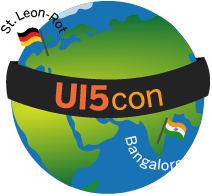
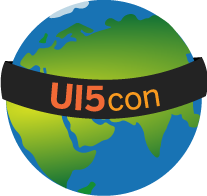
OpenUI5.org: Adjust the link to the Bangalore site

diff --git a/javascripts/index.js b/javascripts/index.js
@@ -1,9 +1,59 @@
-/*$(document).ready(function() {
-	var oImage = $("#ui5ConSticker");
-	$(".map-areas area").mouseenter(function() {
-		var iId = $(".map-areas area").index(this);
-			iId === 0 ? oImage.attr("src", "../openui5/images/UI5con_germany.png") : oImage.attr("src", "../openui5/images/UI5con_bangalore.png");
+$(document).ready(function () {
+	var sGermanyFlagInitialWidth = $("#ui5ConGermany").css("width"),
+		sBangaloreInitialFlagWidth = $("#ui5ConBangalore").css("width"),
+		iGermanyFlagInitialWidthPx = $("#ui5ConGermany").outerWidth(),
+		iGermanyFlagInitialHeightPx = $("#ui5ConGermany").outerHeight(),
+		iBangaloreInitialFlagWidthPx = $("#ui5ConBangalore").outerWidth(),
+		iBangaloreInitialFlagHeightPx = $("#ui5ConBangalore").outerHeight();
+
+	$("#ui5ConGermany").hover(function () {
+
+		$("#ui5ConGermany").css("width", "100%");
+		$("#ui5ConBangalore").css("width", "70%");
+
+		var iGermanyFlagWidthPx = $("#ui5ConGermany").outerWidth(),
+			iGermanyFlagHeightPx = $("#ui5ConGermany").outerHeight(),
+			iBangaloreFlagWidthPx = $("#ui5ConBangalore").outerWidth(),
+		iBangaloreFlagHeightPx = $("#ui5ConBangalore").outerHeight();
+
+		$("#ui5ConGermany").css("left", (iGermanyFlagInitialWidthPx - iGermanyFlagWidthPx)/4 + "px")
+			.css("top", (iGermanyFlagInitialHeightPx - iGermanyFlagHeightPx)/4 + "px");
+
+		$("#ui5ConBangalore").css("right", (iBangaloreInitialFlagWidthPx - iBangaloreFlagWidthPx)/4 + "px")
+			.css("bottom", (iBangaloreInitialFlagHeightPx - iBangaloreFlagHeightPx)/4 + "px");
 	}).mouseleave(function () {
-		oImage.attr("src", "../openui5/images/UI5con_world.png");
+		$("#ui5ConGermany").css("width", sGermanyFlagInitialWidth)
+			.css("left", 0)
+			.css("top", 0);
+		$("#ui5ConBangalore").css("width", sBangaloreInitialFlagWidth)
+			.css("right", 0)
+			.css("bottom", 0);
 	});
+
+	$("#ui5ConBangalore").hover(function () {
+		$("#ui5ConBangalore").css("width", "100%");
+		$("#ui5ConGermany").css("width", "70%");
+
+		var iGermanyFlagWidthPx = $("#ui5ConGermany").outerWidth(),
+			iGermanyFlagHeightPx = $("#ui5ConGermany").outerHeight(),
+			iBangaloreFlagWidthPx = $("#ui5ConBangalore").outerWidth(),
+			iBangaloreFlagHeightPx = $("#ui5ConBangalore").outerHeight();
+
+		$("#ui5ConGermany").css("left", (iGermanyFlagInitialWidthPx - iGermanyFlagWidthPx)/4 + "px")
+			.css("top", (iGermanyFlagInitialHeightPx - iGermanyFlagHeightPx)/4 + "px");
+
+		$("#ui5ConBangalore").css("right", (iBangaloreInitialFlagWidthPx - iBangaloreFlagWidthPx)/4 + "px")
+			.css("bottom", (iBangaloreInitialFlagHeightPx - iBangaloreFlagHeightPx)/4 + "px");
+
+	}).mouseleave(function () {
+		$("#ui5ConGermany").css("width", sGermanyFlagInitialWidth)
+			.css("left", 0)
+			.css("top", 0);
+		$("#ui5ConBangalore").css("width", sBangaloreInitialFlagWidth)
+			.css("right", 0)
+			.css("bottom", 0);
+	});
+
 });
+
+

diff --git a/index.html b/index.html
@@ -26,14 +26,24 @@
 <body>
 <!-- HEADER -->
 <div id="header_wrap" class="outer">
-	<div class="wrap_ie9">
-		<img id="ui5ConSticker" src="./images/UI5con_world.png" style="display:block;float:right;margin-top:40px;margin-right:10%;padding:0;z-index:999;" class="inner" alt="UI5con@SAP 2017" usemap="#ui5ConMap">
-			<map name="ui5ConMap" class="map-areas">
+	<div class="wrap_ie9" >
+		<div style="padding:0;" class="inner ui5-sticker">
+		<a href="https://wiki.scn.sap.com/wiki/display/events/UI5con">
+			<img id="ui5ConWorld" src="./images/UI5con_world.png" class="ui5con-flag" alt="UI5con@SAP 2017" usemap="#ui5ConMap">
+		</a>
+			<a href="ui5con/index.html">
+				<img id="ui5ConGermany" src="./images/St.LeonFlag.png" class="germany-flag"  alt="UI5con@SAP 2017" usemap="#ui5ConMap">
+			</a>
+			<a href="https://openui5.org/ui5conblr">
+				<img id="ui5ConBangalore" src="./images/BangaloreFlag.png" class="bangalore-flag" alt="UI5con@SAP 2017" usemap="#ui5ConMap">
+			</a>
+		</div>
+
+			<!--<map id="map" name="ui5ConMap" class="map-areas">
 				<area shape="circle" coords="100,0,90" href="ui5con/index.html">
 				<area shape="rect" coords="0,100,200,30" href="https://wiki.scn.sap.com/wiki/display/events/UI5con">
 				<area shape="circle" coords="100,201,120" href="https://openui5.org/ui5conblr">
-			</map>
-
+			</map>-->
 		<div class="inner">
 
 			<img src="./images/OpenUI5_new_big_side.png" class="ui5logo" alt="OpenUI5 Icon">

diff --git a/stylesheets/main.css b/stylesheets/main.css
@@ -470,6 +470,30 @@ ul.feature-links > li {
 .feature-anchor {
   color: #666;
 }
+
+.ui5-sticker {
+  display:block;
+  float:right;
+  margin-top:40px;
+  margin-right:10%;
+  z-index:999;
+  position: relative;
+}
+
+.ui5con-flag {
+
+}
+.bangalore-flag {
+  position:absolute;
+  bottom: 0;
+  right: 0;
+}
+
+.germany-flag {
+  position:absolute;
+  top: 0;
+  left: 0;
+}
 /*******************************************************************************
 Small Device Styles
 *******************************************************************************/
